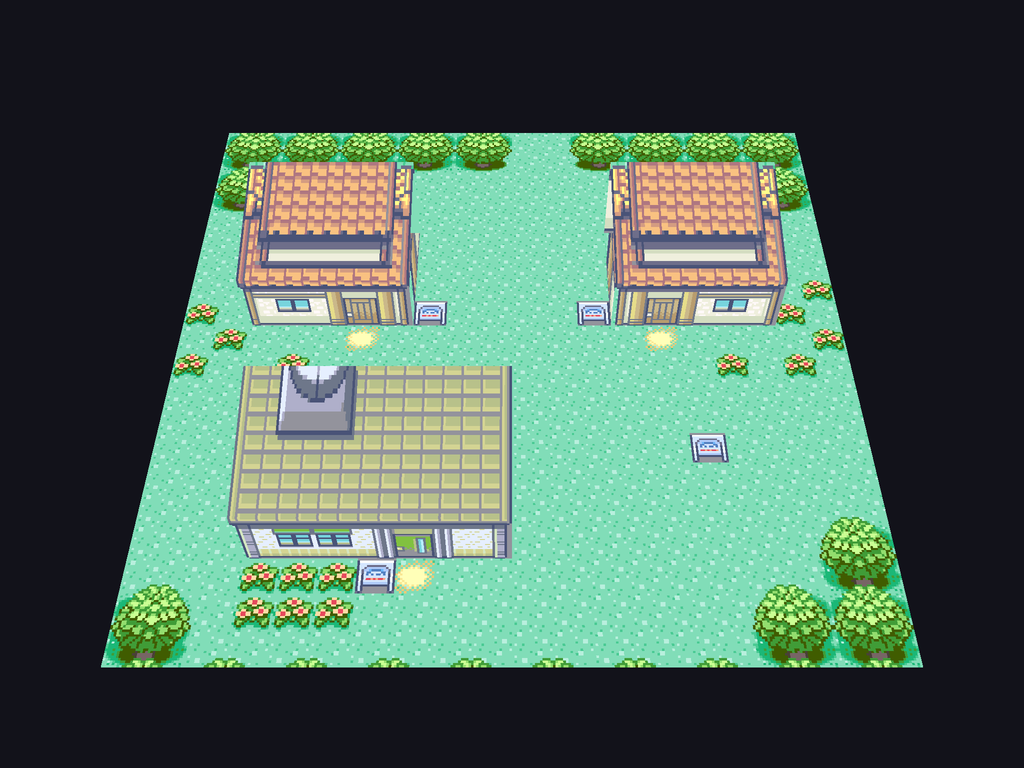
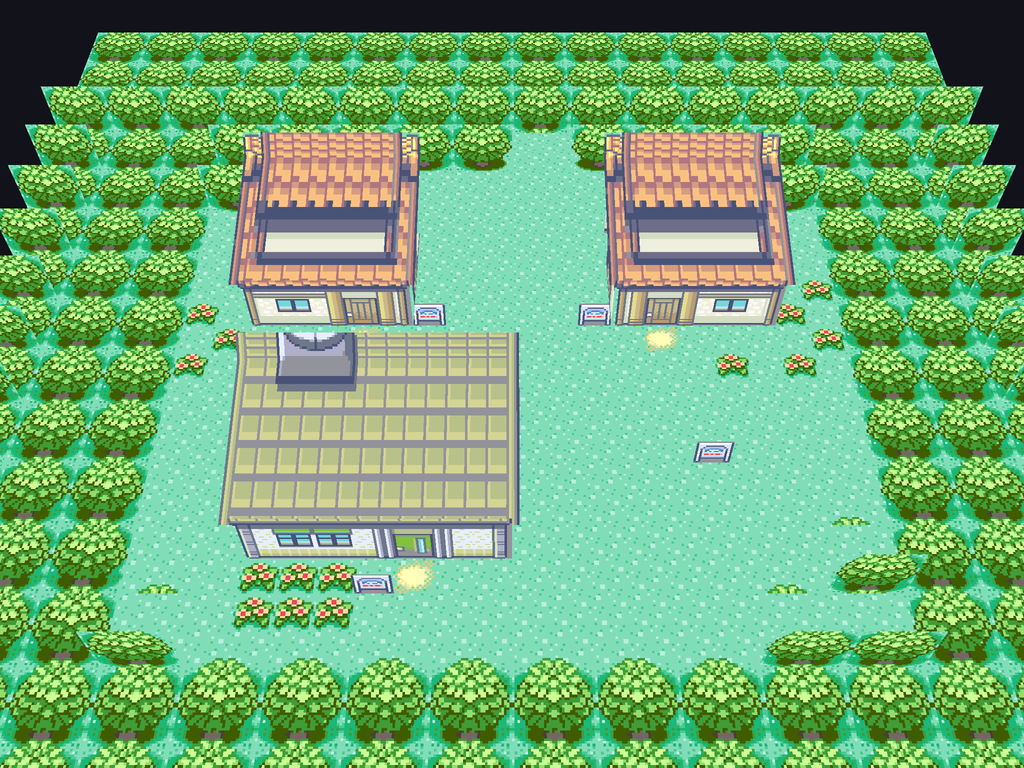
Buildings round 2: ridge fold, roof overhang, opaque side strip; 3-D trees/signs in preview
Owner feedback fixes, mirrored into the ROM prop builder (_fold_model, now
6 faces) and the preview renderer:
- side seam: strip samples the first >=90%-opaque wall column band and
  fills alpha holes (edge columns are keyed corners -> grass seam gone)
- roof: 3px overhang past the walls; top 12 art rows fold up as a ridge
  face so the gable's far side renders as a surface, not a cut line
- preview look-dev for surroundings: tree canopies as segmented 2-cell
  billboards, sign bg_events as billboards, and border.bin rendered as a
  forest apron ring enclosing the town (kills map-edge void gaps)
- mdlview tolerates external-NSBTX models; generated fold model verified
  by geometry decode round-trip; extractor still 136 buildings / 36 maps

Claude-Session: https://claude.ai/code/session_01PLZp7kry43v94qnZ8U1vZd

diff --git a/tools/regionport/preview_render.py b/tools/regionport/preview_render.py
@@ -71,6 +71,8 @@ class Camera:
 def paste_quad(canvas, tex, world_quad, cam):
     """Texture `tex` onto the projection of world_quad (tex corners map
     clockwise from top-left)."""
+    if tex.mode != "RGBA":
+        tex = tex.convert("RGBA")
     proj = [cam.project(p) for p in world_quad]
     xs = [p[0] for p in proj]
     ys = [p[1] for p in proj]
@@ -246,21 +248,193 @@ def render(mid="MAP_LITTLEROOT_TOWN", out_path=None, donor=False):
         print("wrote", out_path)
         return
 
-    # painter's: farthest (smallest z back) first == north to south
-    for b in sorted(builds, key=lambda b: b["rect"][1]):
+    # ---- other 3-D-ified elements: trees + signs ------------------------- #
+    def cell_art(tx, ty):
+        return raw.crop((tx * 16, ty * 16, (tx + 1) * 16, (ty + 1) * 16))
+
+    def greenish(im):
+        g = t = 0
+        for r, gr, bl, a in im.convert("RGBA").getdata():
+            if a:
+                t += 1
+                if gr > r * 1.12 and gr > bl * 1.12:
+                    g += 1
+        return t and g / t > 0.5
+
+    in_rect = set()
+    for b in builds:
+        x0, y0, x1, y1 = b["rect"]
+        in_rect |= {(tx, ty) for tx in range(x0, x1 + 1)
+                    for ty in range(y0, y1 + 1)}
+    common = mb.common_ground()
+    common_img = None
+    for ty in range(m.h):
+        for tx in range(m.w):
+            c = mb.cell(tx, ty)
+            if c and c["mt"] in common:
+                common_img = Image.eval(cell_art(tx, ty),
+                                        lambda v: min(255, round(v * hb.HOENN_GAIN)))
+                break
+        if common_img is not None:
+            break
+
+    objects = []      # (south_z, kind, payload)
+    tree_cells = set()
+    _tree_memo = {}
+
+    def is_tree(tx, ty):
+        if not (0 <= tx < m.w and 0 <= ty < m.h) or (tx, ty) in in_rect:
+            return False
+        if (tx, ty) not in _tree_memo:
+            solid = (m.blocks[ty * m.w + tx] >> 10) & 3
+            _tree_memo[(tx, ty)] = bool(solid) and greenish(cell_art(tx, ty))
+        return _tree_memo[(tx, ty)]
+
+    # segment each column's tree run into 2-cell canopies from the bottom up
+    for tx in range(m.w):
+        ty = m.h - 1
+        while ty >= 0:
+            if not is_tree(tx, ty) or (tx, ty) in tree_cells:
+                ty -= 1
+                continue
+            top = ty
+            while top - 1 >= 0 and is_tree(tx, top - 1):
+                top -= 1
+            yb = ty
+            while yb >= top:
+                hcells = 2 if yb - 1 >= top else 1
+                tex = raw.crop((tx * 16, (yb - hcells + 1) * 16,
+                                (tx + 1) * 16, (yb + 1) * 16))
+                tex = Image.eval(tex,
+                                 lambda v: min(255, round(v * hb.HOENN_GAIN)))
+                for k in range(hcells):
+                    tree_cells.add((tx, yb - k))
+                objects.append(((yb + 1) * 16, "billboard",
+                                (tex, tx * 16 + 8, (yb + 1) * 16,
+                                 16, hcells * 16)))
+                yb -= hcells
+            ty = top - 1
+    for ev in (mb.m.json.get("bg_events") or []):
+        tx, ty = int(ev.get("x", -1)), int(ev.get("y", -1))
+        if not (0 <= tx < m.w and 0 <= ty < m.h) or (tx, ty) in in_rect:
+            continue
+        tex = Image.eval(cell_art(tx, ty),
+                         lambda v: min(255, round(v * hb.HOENN_GAIN)))
+        objects.append(((ty + 1) * 16, "billboard",
+                        (tex, tx * 16 + 8, (ty + 1) * 16, 16, 16)))
+        tree_cells.add((tx, ty))
+    # flatten billboarded cells in the ground
+    if common_img is not None:
+        for (tx, ty) in tree_cells:
+            ground.paste(common_img, (tx * 16, ty * 16))
+
+    # border apron: the GBA repeats border.bin (a 2x2-metatile block, the
+    # forest ring for towns) outside the layout — render it around the map
+    # so edges are enclosed instead of dropping into the void
+    APRON = 6            # tiles each side (multiple of 2)
+    border_img = None
+    try:
+        import struct as _st
+        braw = open(os.path.join(hb.EMER,
+                                 m.layout["border_filepath"]), "rb").read()
+        bmts = _st.unpack("<4H", braw[:8])
+        border_img = Image.new("RGBA", (32, 32))
+        pals = m.palettes()
+        for bi, mt in enumerate(bmts):
+            mdef, _ = m.metatile_def(mt)
+            if mdef is None:
+                continue
+            tile = Image.new("RGBA", (16, 16))
+            tp = tile.load()
+            for layer in range(2):
+                for sub in range(4):
+                    v = mdef[layer * 4 + sub]
+                    tid, hf, vf, pal = (v & 0x3FF, v & 0x400, v & 0x800,
+                                        (v >> 12) & 0xF)
+                    rows = m.subtile_pixels(tid)
+                    colors = pals[pal] if pal < len(pals) else []
+                    for ry in range(8):
+                        srow = rows[7 - ry] if vf else rows[ry]
+                        for rx in range(8):
+                            ci = srow[7 - rx] if hf else srow[rx]
+                            if layer == 1 and ci == 0:
+                                continue
+                            if ci < len(colors):
+                                tp[(sub % 2) * 8 + rx, (sub // 2) * 8 + ry] = (
+                                    *colors[ci], 255)
+            border_img.paste(tile, ((bi % 2) * 16, (bi // 2) * 16))
+        border_img = Image.eval(border_img,
+                                lambda v: min(255, round(v * hb.HOENN_GAIN)))
+    except Exception:
+        APRON = 0
+    if APRON:
+        big = Image.new("RGBA", (W + APRON * 32, H + APRON * 32))
+        for by in range(0, big.height, 32):
+            for bx in range(0, big.width, 32):
+                big.paste(border_img, (bx, by))
+        big.paste(ground, (APRON * 16, APRON * 16))
+        ground = big
+        A = APRON * 16
+        # billboard the apron's inner ring so the enclosure reads as 3-D
+        for bx in range(-A, W + A, 32):
+            objects.append((0, "billboard",
+                            (border_img, bx + 16, 0, 32, 32)))
+            objects.append((H + A, "billboard",
+                            (border_img, bx + 16, H + A, 32, 32)))
+        for bz in range(32, H + A, 32):
+            objects.append((bz, "billboard", (border_img, -A + 16, bz, 32, 32)))
+            objects.append((bz, "billboard",
+                            (border_img, W + A - 16, bz, 32, 32)))
+    else:
+        A = 0
+
+    # re-blit ground (it changed) before drawing objects
+    canvas = Image.new("RGBA", (OUT_W * SS, OUT_H * SS), (18, 18, 26, 255))
+    paste_quad(canvas, ground,
+               [(-A, 0, -A), (W + A, 0, -A), (W + A, 0, H + A), (-A, 0, H + A)],
+               cam)
+
+    for b in builds:
+        objects.append(((b["rect"][3] + 1) * 16, "building", b))
+
+    OV = 3            # roof overhang, art px
+    for _z, kind, payload in sorted(objects, key=lambda o: o[0]):
+        if kind == "billboard":
+            tex, bx, bz, bw, bh = payload
+            paste_quad(canvas, tex,
+                       [(bx - bw / 2, bh, bz), (bx + bw / 2, bh, bz),
+                        (bx + bw / 2, 0, bz), (bx - bw / 2, 0, bz)], cam)
+            continue
+        b = payload
         x0, y0, x1, y1 = b["rect"]
         img = b["img"]
         w, h = img.size
-        cx = (x0 + x1 + 1) * 8            # center x in px
-        zf = (y1 + 1) * 16                # south (front) edge
-        zb = y0 * 16                      # north (back) edge
+        cx = (x0 + x1 + 1) * 8
+        zf = (y1 + 1) * 16
+        zb = y0 * 16
         wall = min(hb.WALL_PX_SHORT if h <= 80 else hb.WALL_PX_TALL, h)
         roof_v = h - wall
         tilt = hb.ROOF_TILT if roof_v > 0 else 0
         hw = w / 2.0
-        # sides/back: the front wall's edge-column strip (matches the strip
-        # _quantize16 bakes into the texture padding)
-        strip = img.crop((0, roof_v, 8, h))
+        hwo = hw + OV
+
+        # side strip: first mostly-opaque 8px column band of the wall rows,
+        # alpha holes filled so no grass/transparent seam at the corner
+        a = img.split()[3]
+        sx0 = 0
+        for x in range(0, max(1, w - 8)):
+            col = [a.getpixel((x, y)) for y in range(roof_v, h)]
+            if sum(1 for v in col if v > 128) >= len(col) * 0.9:
+                sx0 = x
+                break
+        strip = img.crop((sx0, roof_v, sx0 + 8, h)).convert("RGBA")
+        sp = strip.load()
+        for y in range(strip.height):
+            row = [sp[x, y] for x in range(8) if sp[x, y][3]]
+            fillc = row[len(row) // 2] if row else (120, 120, 120, 255)
+            for x in range(8):
+                if not sp[x, y][3]:
+                    sp[x, y] = fillc
 
         for face in (
             [(cx + hw, wall, zf), (cx + hw, wall + tilt, zb),
@@ -271,11 +445,24 @@ def render(mid="MAP_LITTLEROOT_TOWN", out_path=None, donor=False):
              (cx - hw, 0, zb), (cx + hw, 0, zb)],
         ):
             paste_quad(canvas, strip, face, cam)
+
+        # roof: overhangs the walls; top rows fold up as the ridge so the
+        # far side of a gabled roof stays visible instead of a cut line
+        ridge = 12 if roof_v >= 24 else 0
         if roof_v > 0:
-            roof_tex = img.crop((0, 0, w, roof_v))
+            roof_tex = img.crop((0, ridge, w, roof_v))
             paste_quad(canvas, roof_tex,
-                       [(cx - hw, wall + tilt, zb), (cx + hw, wall + tilt, zb),
-                        (cx + hw, wall, zf), (cx - hw, wall, zf)], cam)
+                       [(cx - hwo, wall + tilt, zb - OV),
+                        (cx + hwo, wall + tilt, zb - OV),
+                        (cx + hwo, wall, zf + OV),
+                        (cx - hwo, wall, zf + OV)], cam)
+        if ridge:
+            rtex = img.crop((0, 0, w, ridge))
+            paste_quad(canvas, rtex,
+                       [(cx - hwo, wall + tilt + ridge * 0.8, zb - OV - ridge * 0.6),
+                        (cx + hwo, wall + tilt + ridge * 0.8, zb - OV - ridge * 0.6),
+                        (cx + hwo, wall + tilt, zb - OV),
+                        (cx - hwo, wall + tilt, zb - OV)], cam)
         wall_tex = img.crop((0, roof_v, w, h))
         paste_quad(canvas, wall_tex,
                    [(cx - hw, wall, zf), (cx + hw, wall, zf),

diff --git a/tools/regionport/hoenn_buildings.py b/tools/regionport/hoenn_buildings.py
@@ -212,6 +212,7 @@ DOWNSCALE_PX = 128                # arts wider/taller than this use half-res
 BASE_MODELS = 480                 # vanilla 340 + sinnoh import 140
 WALL_PX_SHORT, WALL_PX_TALL = 32, 48
 ROOF_TILT = 16                    # world units of roof rise front->back
+RIDGE_PX = 12                     # top art rows folded up as the ridge
 
 NO_ANIM_MEMBER = bytes.fromhex("ffff000000000000" + "ff" * 16)
 
@@ -494,16 +495,26 @@ def _quantize16(img, wall_rows=0):
     for y in range(py0, py0 + 8):
         for x in range(px0, px0 + 8):
             idx[y * pw + x] = best + 1
-    # side-wall strip: the front wall's outer edge columns, baked below the
+    # side-wall strip: the first mostly-OPAQUE 8px column band of the wall
+    # rows (edge columns can be transparent/keyed corners — sampling them
+    # leaves a grass-colored seam between front and side), baked below the
     # patch so side faces show connected wall texture instead of flat color
     strip = None
     wall_r = wall_rows if wall_rows and wall_rows <= h else 0
     if wall_r and py0 + 8 + wall_r <= ph and px0 + 8 <= pw:
+        sx0 = 0
+        for x in range(0, max(1, w - 8)):
+            if sum(1 for y in range(h - wall_r, h) if apx[x, y]) >= wall_r * 0.9:
+                sx0 = x
+                break
         sy = py0 + 8
         for y in range(wall_r):
+            yy = h - wall_r + y
+            src = best + 1
             for x in range(8):
-                src = qpx[min(x, w - 1), h - wall_r + y] + 1 \
-                    if apx[min(x, w - 1), h - wall_r + y] else best + 1
+                xx = min(sx0 + x, w - 1)
+                if apx[xx, yy]:
+                    src = qpx[xx, yy] + 1
                 idx[(sy + y) * pw + (px0 + x)] = src
         strip = (px0, sy, 8, wall_r)
     texels = bytearray(pw * ph // 2)
@@ -548,13 +559,26 @@ def _fold_model(art, name, ground_d_px):
         ((hw, 0, hd), (w / ts, h / ts)),
         ((-hw, 0, hd), (0, h / ts)),
     ]))
+    # roof overhangs the walls; the top art rows fold up as the ridge so the
+    # far side of a gabled roof reads as a surface, not a cut line
+    OV = 3
+    hwo, hdo = hw + OV, hd + OV
+    ridge = RIDGE_PX if roof_v >= 24 else 0
     if roof_v > 0:
-        # roof: front edge y=wall at z=+hd, back edge y=wall+tilt at z=-hd
+        # main slope: front edge y=wall at z=+hdo, back y=wall+tilt at -hdo
         faces.append(((0, 0.97, 0.24), [
-            ((-hw, wall + tilt, -hd), (0, 0)),
-            ((hw, wall + tilt, -hd), (w / ts, 0)),
-            ((hw, wall, hd), (w / ts, roof_v / ts)),
-            ((-hw, wall, hd), (0, roof_v / ts)),
+            ((-hwo, wall + tilt, -hdo), (0, ridge / ts)),
+            ((hwo, wall + tilt, -hdo), (w / ts, ridge / ts)),
+            ((hwo, wall, hdo), (w / ts, roof_v / ts)),
+            ((-hwo, wall, hdo), (0, roof_v / ts)),
+        ]))
+    if ridge:
+        rl = ridge / ts
+        faces.append(((0, 0.6, -0.8), [
+            ((-hwo, wall + tilt + ridge * 0.8, -hdo - ridge * 0.6), (0, 0)),
+            ((hwo, wall + tilt + ridge * 0.8, -hdo - ridge * 0.6), (w / ts, 0)),
+            ((hwo, wall + tilt, -hdo), (w / ts, rl)),
+            ((-hwo, wall + tilt, -hdo), (0, rl)),
         ]))
     # sides: front wall's edge-column strip, top of strip at the eave line
     faces.append(((1, 0, 0), [

diff --git a/tools/regionport/mdlview.py b/tools/regionport/mdlview.py
@@ -111,13 +111,18 @@ class Model:
             else:
                 p += 1      # unknown: skip conservatively
 
-        self.tex = Tex0(blob)
+        try:
+            self.tex = Tex0(blob)      # None for props with external NSBTX
+        except ValueError:
+            self.tex = None
         self._teximg = {}
 
     def texture_image(self, mat_id):
         """RGBA PIL image for a material (None if untextured)."""
         name = self.mat_tex.get(mat_id)
         if name is None:
+            return None
+        if self.tex is None:
             return None
         if name not in self._teximg:
             e = next((t for t in self.tex.textures if t.name == name), None)

diff --git a/ENGINEERING.md b/ENGINEERING.md
@@ -98,6 +98,16 @@ whole texturing pipeline — **no Emerald pixel reaches the ROM anymore**:
   grass at sloped roof corners), and _quantize16/_fold_model now bake an
   8px front-wall edge strip into the texture padding and UV the side/back
   faces with it (connected wall texture instead of flat patch color).
+  Owner-review round 2 landed: side strip now samples the first mostly-
+  OPAQUE wall column (edge columns are keyed corners — sampling them left a
+  grass seam), the roof overhangs the walls by 3px, and the top RIDGE_PX=12
+  art rows fold up as a ridge face so the far roof side reads as a surface
+  instead of a cut line (_fold_model emits 6 faces now; geometry verified
+  by decode round-trip). preview_render.py also 3-D-ifies surroundings for
+  look-dev: tree canopies as 2-cell billboards (column runs segmented),
+  signs as billboards from bg_events, and the map's border.bin block
+  rendered as an apron ring around the town. ROM-side: trees already erect
+  as quads in hoenn_ground v6; signs as small props are a proposed round.
   Remaining building rounds: per-type wall heights, door-face alignment,
   and elevation cliffs.
 
